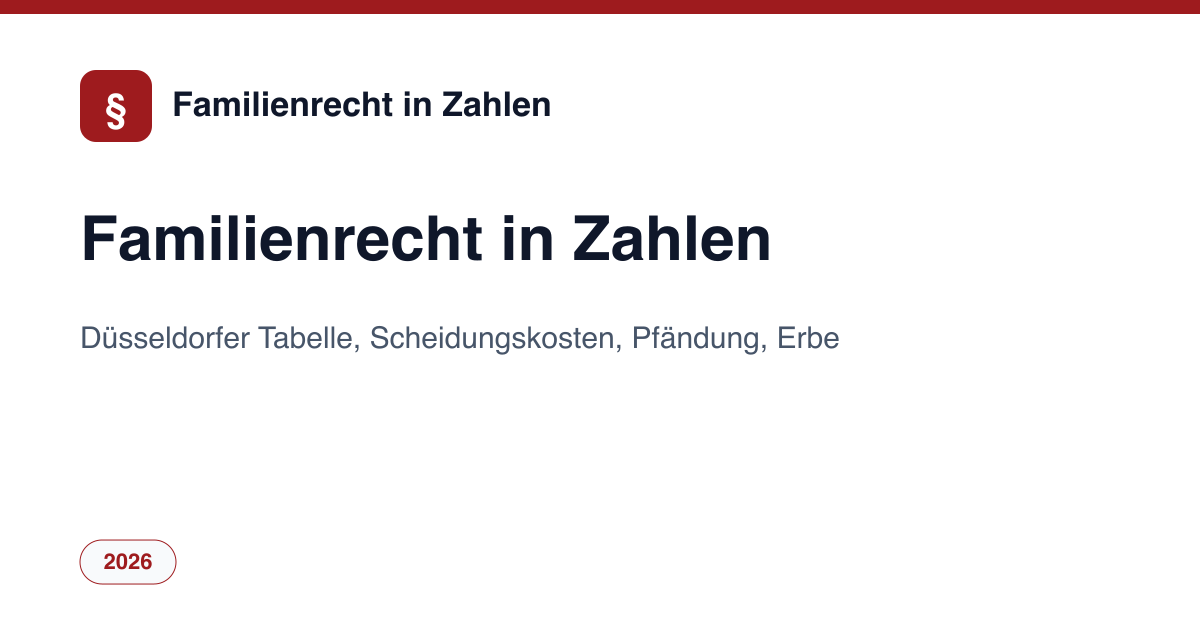
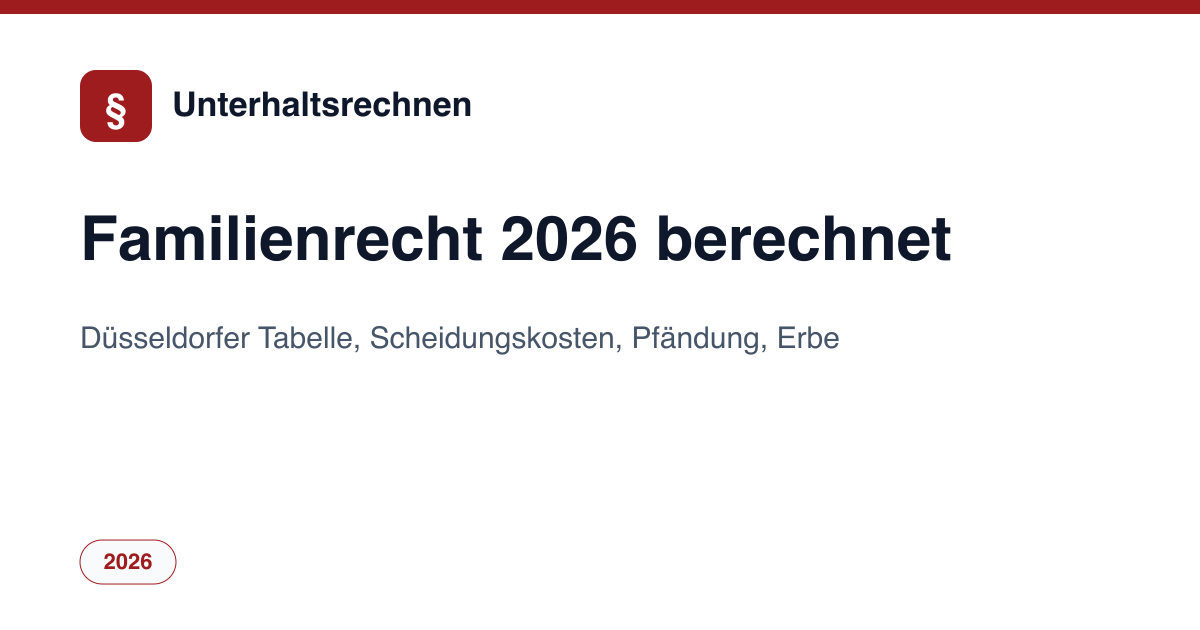
Mise en ligne sur unterhaltsrechnen.de : nom, domaine, déploiement GitHub Pages

Changed region(s): [[0.4008, 0.3317, 0.8017, 0.4222], [0.1233, 0.1206, 0.4625, 0.181]]

diff --git a/src/data/site-config.ts b/src/data/site-config.ts
@@ -1,6 +1,6 @@
 /** Configuration centrale du site (générée par new-site.py). */
-export const SITE_URL = "https://de-familienrecht.example";
-export const SITE_NAMES: Record<string, string> = {"de": "Familienrecht in Zahlen", "en": "German Family Law in Figures"};
+export const SITE_URL = "https://unterhaltsrechnen.de";
+export const SITE_NAMES: Record<string, string> = {"de": "Unterhaltsrechnen", "en": "Unterhaltsrechnen"};
 export const LANG_TAGS: Record<string, string> = {"de": "de-DE", "en": "en-DE"};
 export const OG_LOCALES: Record<string, string> = {"de": "de_DE", "en": "en_GB"};
 /** Zahlenformat je Sprache: deutsch 1.234,56 €, englisch für Expats €1,234.56. */
@@ -18,7 +18,7 @@ export const AUTHOR_DESC: Record<string, string> = {"de": "Radif Partners rechne
  *  themes reellement traites par le site, pas une liste de mots-cles : un sujet
  *  declare ici sans page qui le couvre est une declaration fausse. */
 export const KNOWS_ABOUT: Record<string, string[]> = {"de": ["Düsseldorfer Tabelle", "Kindesunterhalt", "Ehegattenunterhalt", "Scheidungskosten", "Pfändungsfreigrenzen", "Gesetzliche Erbfolge und Pflichtteil", "Erbschaftsteuer"], "en": ["Düsseldorf Table", "Child support in Germany", "Spousal support", "Divorce costs", "Wage garnishment limits", "Statutory inheritance and compulsory share", "Inheritance tax"]};
-export const CONTACT_EMAIL = "contact@de-familienrecht.example";
+export const CONTACT_EMAIL = "contact@unterhaltsrechnen.de";
 export const THEME_COLOR = '#9E1B1E';
 export const LOGO_SYMBOL = '§';
 export const BING_VERIFY_CODE = '';

diff --git a/scripts/build-llms.py b/scripts/build-llms.py
@@ -13,7 +13,7 @@ for f in sorted(glob.glob('dist/*/**/index.html', recursive=True)):
     t = html.unescape(re.search(r'<title>(.*?)</title>', d, re.S).group(1))
     m = re.search(r'name="description" content="(.*?)"', d, re.S)
     rows[lang].append((path, t, html.unescape(m.group(1)) if m else ''))
-out = ['# Familienrecht in Zahlen (German Family Law in Figures)', '',
+out = ['# Unterhaltsrechnen', '',
        '> Unabhängige Seite von Radif Partners auf Deutsch und Englisch: Düsseldorfer Tabelle 2026 als anklickbare Tabelle und Rechner (mehrere Kinder, Bedarfskontrollbetrag, Mangelfall nach Anmerkung C, Wechselmodell, erweiterter Umgang nach BGH XII ZB 415/25), Ehegatten-, Trennungs-, Volljährigen- und Elternunterhalt, Unterhaltsvorschuss, Scheidungskosten nach FamGKG und RVG (Tabellen seit Juni 2025), Verfahrenskostenhilfe, Zugewinn- und Versorgungsausgleich, Pfändungstabelle ab 1. Juli 2026 (' + str(PF) + ' Zeilen der amtlichen Monatstabelle getestet), P-Konto, gesetzliche Erbfolge, Pflichtteil und Erbschaftsteuer.', '',
        'Alle Berechnungen laufen im Browser; keine Datenerhebung, keine Vermittlung an Kanzleien. Ergebnisse sind allgemeine Berechnungen nach amtlichen Werten, keine Rechtsberatung.', '']
 for lang, titel in (('de', '## Seiten auf Deutsch'), ('en', '## Pages in English')):

diff --git a/CONTRIBUTING-SEITEN.md b/CONTRIBUTING-SEITEN.md
@@ -1,4 +1,4 @@
-# Ajouter ou étoffer une page de de-familienrecht
+# Ajouter ou étoffer une page de Unterhaltsrechnen (unterhaltsrechnen.de)
 
 Notice pour les agents qui prolongent le site (droit de la famille allemand en chiffres, de + en).
 À lire en entier avec `~/Documents/GitHub/RECETTE-SITE.md` (§0, §3, §6, §7, §9.3, §11, §17.4, §21, §22, §26).
@@ -67,7 +67,7 @@ Pfändungstabelle, chaque valeur des Anlagen 2) et `tests/pages.test.ts` (forme 
 ## Contrôles (tous à 0)
 
 ```bash
-cd ~/Documents/GitHub/a-publier/Mottalib-10M/de-familienrecht
+cd ~/Documents/GitHub/a-publier/Mottalib-10M/unterhaltsrechnen.de
 export NODE_PATH=$(npm root -g):$PWD/node_modules
 npm run build                       # inclut typo-nbsp et check-snippets
 npx vitest run
